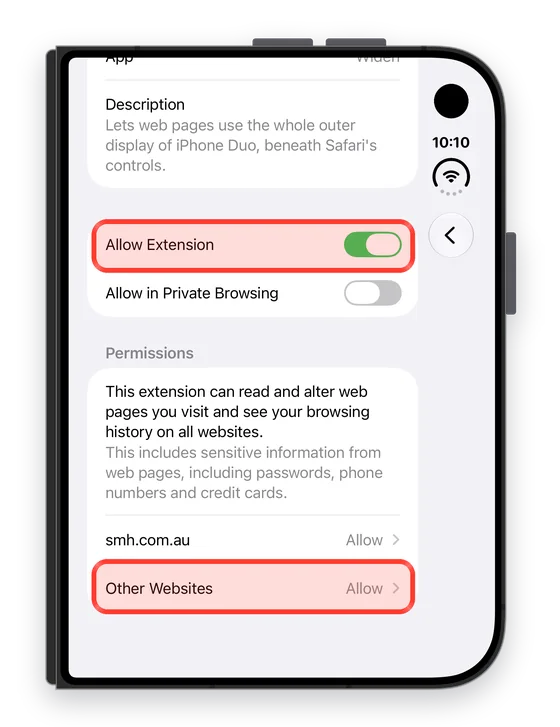
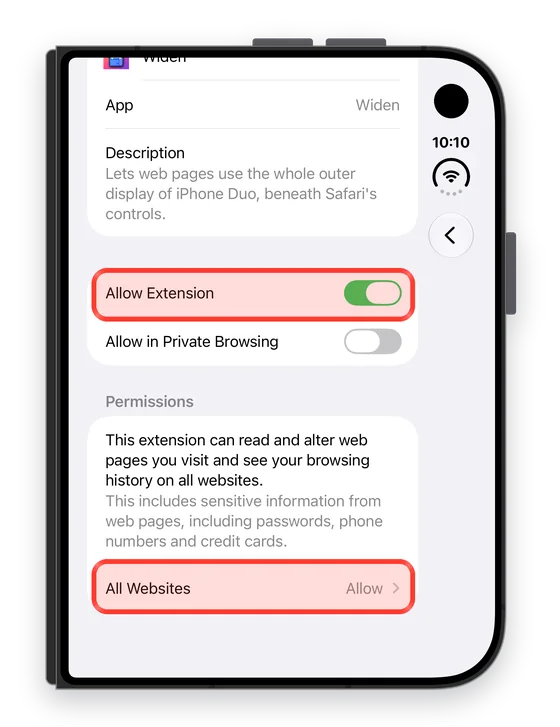
Setup step 2: All Websites: Allow

diff --git a/setup/index.html b/setup/index.html
@@ -30,9 +30,9 @@
       <li>
         <div><span class="where">In Settings › Safari</span>
           <h2>Allow <em>Widen</em></h2>
-          <p>Switch <strong>Allow Extension</strong> on. Then, under Permissions, set <strong>All Websites</strong> to <strong>Allow</strong> (it&rsquo;s called <strong>Other Websites</strong> if you&rsquo;ve already allowed a site by name), so <em>Widen</em> can work on every page you open. If you use Private Browsing, switch that on too.</p>
+          <p>Switch <strong>Allow Extension</strong> on. Then, under Permissions, set <strong>All Websites</strong> to <strong>Allow</strong>, so <em>Widen</em> can work on every page you open. If you use Private Browsing, switch that on too.</p>
           <p class="aside">You&rsquo;ll find the same page later in <strong>Settings › Apps › Safari › Extensions › Widen</strong>.</p></div>
-        <figure class="shot"><img src="../img/setup-settings.webp?v=8" width="560" height="727" loading="lazy" alt="Widen's page in Settings with Allow Extension switched on and Other Websites set to Allow, both circled"><figcaption>Allow Extension on; websites set to Allow</figcaption></figure>
+        <figure class="shot"><img src="../img/setup-settings.webp?v=9" width="560" height="727" loading="lazy" alt="Widen's page in Settings with Allow Extension switched on and All Websites set to Allow, both circled"><figcaption>Allow Extension on; websites set to Allow</figcaption></figure>
       </li>
       <li>
         <div><span class="where">In Safari</span>
